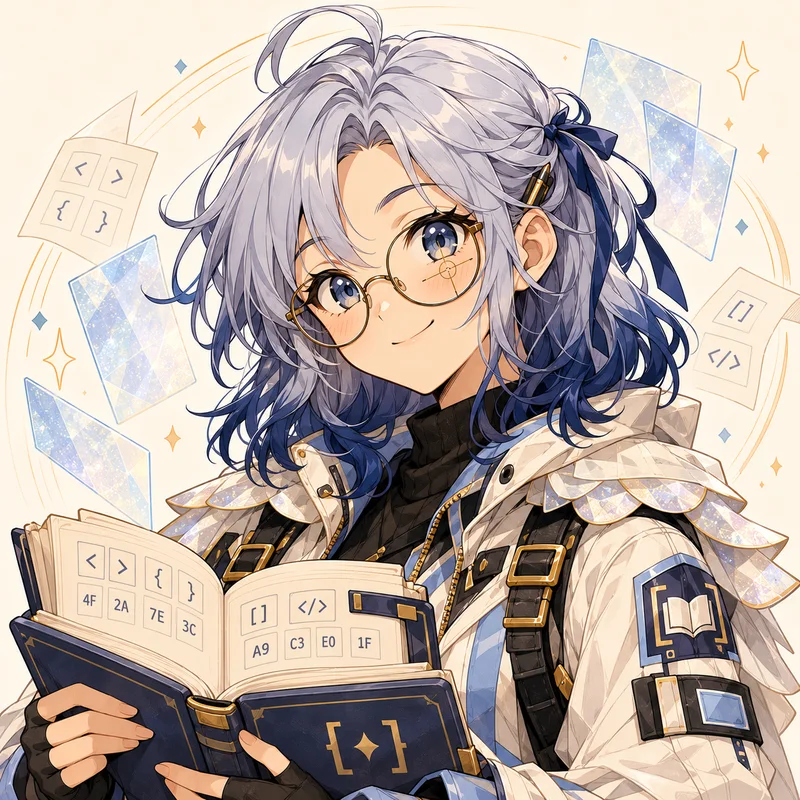
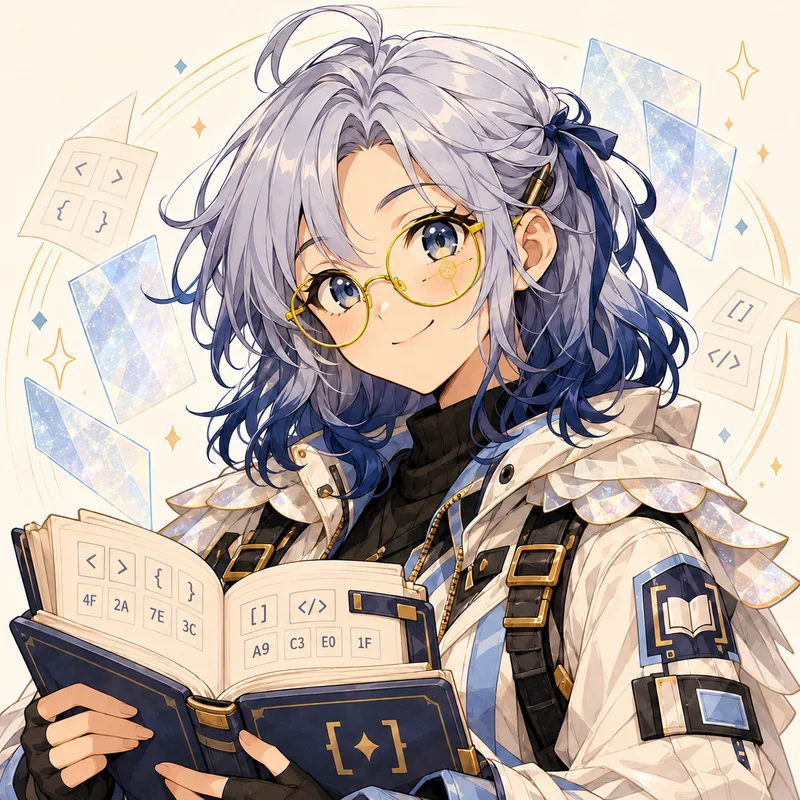
Give Mica heliodor-gold glasses to match Beryl
Seth asked for Mica's glasses to match Beryl's signature color, heliodor
gold #FFF01F (golden beryl). Both of Mica's site images are replaced in place
by Codex precise-object edits of the same images that change only the glasses
frames, the faint lens tint and the reticle; everything else is unchanged.

- mica-id-original-studio.webp: 800 by 800, quality-84 WebP.
- mica-reading-room-codex.webp: 1678 by 937, quality-84 WebP.
- ASSET_PROVENANCE.md records the new Codex sources and the earlier ones.

diff --git a/design/v2-preview/ASSET_PROVENANCE.md b/design/v2-preview/ASSET_PROVENANCE.md
@@ -173,8 +173,15 @@ alternates, and the command log live in the Amberverse repository under
 
 | Local asset | Built-in generation source | Encoding |
 |---|---|---|
-| `mica-id-original-studio.webp` | `/Users/crimsonknight/.codex/generated_images/01a16f6c-f265-70d3-9705-289cd816bc25/exec-d4437834-ef37-4b29-b079-75a0bd1ddc8b.png` | resized from 1254 to 800 by 800; quality-84 WebP |
-| `mica-reading-room-codex.webp` | `/Users/crimsonknight/.codex/generated_images/01a16fb5-4ea3-78c0-8557-a7d3125e6401/exec-30832310-7700-4a84-bda2-3857ec802d2b.png` | 1678 by 937 as generated (the crew scenes' 1.79 ratio); quality-84 WebP |
+| `mica-id-original-studio.webp` | `/Users/crimsonknight/.codex/generated_images/01a17004-43ee-7aa2-8ecc-7fd8fb76895f/exec-384c5b67-3d0b-4a36-993f-19205b6b8f4a.png` | resized from 1254 to 800 by 800; quality-84 WebP |
+| `mica-reading-room-codex.webp` | `/Users/crimsonknight/.codex/generated_images/01a17004-439d-7973-abfb-8a76a2f6e962/exec-37408954-ee0d-4f4f-984e-72da00dfa457.png` | 1678 by 937 as generated (the crew scenes' 1.79 ratio); quality-84 WebP |
+
+On 2026-10-24 both files were replaced in place by Codex precise-object
+edits of the same images that change only Mica's glasses, from brass to
+heliodor gold (`#FFF01F`), the signature color of her crewmate Beryl. Every other
+pixel was requested unchanged; the earlier sources were
+`exec-d4437834-ef37-4b29-b079-75a0bd1ddc8b.png` (portrait) and
+`exec-30832310-7700-4a84-bda2-3857ec802d2b.png` (scene).
 
 ## Third-party identity assets
 
